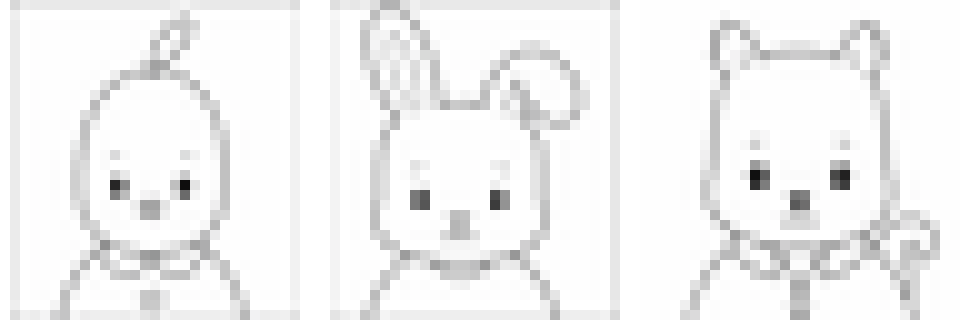
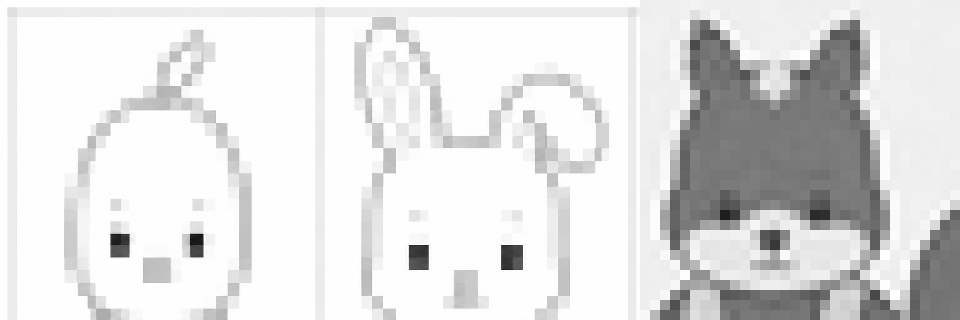
Finalize Luke character design references

diff --git a/planning/style-studies/output-process.html b/planning/style-studies/output-process.html
@@ -84,13 +84,13 @@
           <li><span class="decision-state">決定</span>無難な造形は親しみやすい一方で記憶に残りにくいため、頭の輪郭、比率、頬、顎を三人それぞれに特徴づける。</li>
           <li><span class="decision-state">FIX</span>年齢・性別による大きな体型差は直接反映せず、頭部を保ちながら胴体と手足を小さくしたC案の柔らかい素体を採用する。</li>
           <li><span class="decision-state">FIX</span>代表ポーズによって三人の役割と感情を伝える方針は確定する。</li>
-          <li><span class="decision-state">FIX</span>Lukeは柔らかい縦長頭部、豆形の白い口元、#FF511Bの毛色、グレージュのベストを最終造形とする。</li>
-          <li><span class="decision-state">FIX</span>三人の正面・側面・背面を無彩色の線画で統一し、Lukeの白い口元、耳、ベスト、尻尾の接続とpx寸法を更新する。</li>
+          <li><span class="decision-state">FIX</span>Lukeは柔らかい縦長頭部、豆形の白い口元、小さな三本の額毛、細い眉、#FF511Bの毛色、開いたグレージュのベスト、縦長のお腹の白塗りを最終造形とする。</li>
+          <li><span class="decision-state">FIX</span>三人の正面・側面・背面を無彩色の線画で統一し、Lukeの固定造形とpx寸法を更新する。</li>
         </ol>
       </div>
       <div class="decision-panel todo-panel">
         <h2>TODO｜次の制作</h2>
-        <p>更新した三面図とpx基準をもとに、32px前後の顔＋肩表示で三人の識別性を確認する。あわせてLukeの8動作で頭部、白面、耳、ベスト、尻尾が基準造形から崩れていないか最終確認する。</p>
+        <p>32px前後の顔＋肩表示とLukeの8動作への反映は完了。次は実際の画面背景上で32px表示を確認し、額毛・眉・白い口元が潰れる場合だけ線幅と明度差を調整する。</p>
       </div>
     </div>
   </aside>
@@ -121,7 +121,7 @@
     ];
     const specs = {
       kotori:{ label:"Mimo先生｜小鳥", desc:"聞く・返す・待つ。現在の代表候補は「聞く」。", files:["v1","v1","v2","v1","v1","v1","v1","v2","v3"] },
-      risu:{ label:"Luke先生｜リス", desc:"観察・試す・選び直す。代表ポーズは「ひらめく」。初期の縦長頭部を見直し、現在は柔らかい縦長頭部、豆形の白い口元、#FF511Bの毛色、グレージュのベストを固定造形としている。", files:["v1","v1","v2","v1","v1","v1","v1","v2","v3"], overrides:{0:"outputs/characters/risu/01-risu-character-design-step-1-ratio-lock-guide-v1.png"} },
+      risu:{ label:"Luke先生｜リス", desc:"観察・試す・選び直す。代表ポーズは「ひらめく」。柔らかい縦長頭部、豆形の白い口元、小さな三本の額毛、細い眉、#FF511Bの毛色、開いたグレージュのベスト、縦長のお腹の白塗りを固定造形としている。", files:["v1","v1","v2","v1","v1","v1","v1","v2","v3"], overrides:{0:"outputs/characters/risu/01-risu-character-design-step-1-ratio-lock-guide-v1.png"} },
       usagi:{ label:"Gen先生｜うさぎ", desc:"誘う・気づく・合わせる。現在の代表候補は「誘う」。", files:["v1","v1","v2","v1","v1","v1","v1","v2","v3"] }
     };
     const sections = [];
@@ -151,11 +151,12 @@
       {n:9,title:"選定ポーズを共通骨格に揃えて配色する",note:"STEP 05の推奨骨格へ頭身・胴体幅・手足の大きさを合わせ、Mimo＝黄、Luke＝橙、Gen＝白とワイン紫を適用。Lukeは鼻と口の周囲だけに白いマズルを加え、顔の識別性も比較している。",file:"outputs/groups/09-main-three-selected-emotional-poses-color-study-v2.png",status:"配色比較",statusClass:"hold"}
     ]});
     sections.push({key:"head-shape",label:"頭部特徴あり",desc:"無難な共通頭部は記憶に残りにくいため、身体演技を維持したまま頭部だけを役割に合わせて特徴づけた比較。左が従来の丸い共通頭部、右が現在の推奨頭部。頭の縦横比、頬、顎、目の位置が人格の読み取りへどう影響するかを確認する。",compare:true,items:[
-      {stepLabel:"COLOR LINEUP",title:"三人の頭部特徴と配色を最終決定する",note:"Mimoの落ち着いた黄、Genの白とワイン、Lukeの柔らかい縦長頭部・豆形の白い口元・#FF511Bの毛色を一枚に統合。三人を同じ接地線へ並べ、造形と配色の両方を最終案として固定した。",file:"outputs/groups/26-main-three-head-color-lineup-ff511b-v1.png",status:"造形・配色FIX",statusClass:"current"},
+      {stepLabel:"COLOR LINEUP",title:"配色・頭部比較",note:"頭部特徴と現在の配色を三人で確認する。Lukeは#FF511Bの毛色、柔らかい縦長頭部、豆形の白い口元、小さな三本の額毛、細い眉、開いたベスト、縦長のお腹の白塗りを採用案として反映した。",file:"outputs/groups/26-main-three-head-color-lineup-ff511b-v1.png",status:"造形・配色FIX",statusClass:"current"},
       {n:12,title:"三人の三面図とpx寸法を無彩色線画で統一する",note:"Mimo、Gen、Lukeを同じ無彩色の線画、中心軸、頭部ガイド、接地線で統一。Lukeは柔らかい縦長頭部、豆形の口元境界、C案の身体、ベスト、腰から接続する尻尾へ更新した。基準値はMimo＝全高293px・頭98×128px、Gen＝全高313px・頭142×110px、Luke＝全高280px・頭112×105px。",file:"outputs/groups/12-main-three-after-head-neutral-turnaround-measurement-guide-v1.png",status:"三面図・px基準FIX",statusClass:"current"},
+      {stepLabel:"32PX CHECK",title:"顔＋肩で三人の最小表示を確認する",note:"三人を約32px相当まで縮小し、頭部輪郭と顔の識別性を比較。Lukeは三本の額毛、眉、豆形の白い口元、開いたベストの襟元が小表示でも残るかを確認する。",file:"outputs/groups/25-main-three-final-face-shoulders-32px-preview-v1.png",status:"小表示確認",statusClass:"current"},
       {stepLabel:"MIMO",title:"Mimo先生｜小鳥：丸い小鳥から、静かに受け取る傾聴者へ",beforeFile:"outputs/head-shape-comparison/01-kotori-before-round-head.png",afterFile:"outputs/characters/kotori/10-kotori-listener-emotion-acting-sheet-v1.png",beforeLabel:"正円に近い頭",afterLabel:"縦長の卵形",note:"旧案は親しみやすい一方、幼い小鳥や一般的なマスコットに見えやすい。新案は頬を膨らませず縦方向へ流し、目の大きさを固定。静かに聴き、待つ若い大人の印象を強めた。",points:["縦方向へ伸ばす","頬を足さない","まぶたと傾きで傾聴"]},
       {stepLabel:"GEN",title:"Gen先生｜うさぎ：一般的な丸頭から、安定して伴走する応援者へ",beforeFile:"outputs/head-shape-comparison/02-usagi-before-generic-round-head.png",afterFile:"outputs/characters/usagi/11-usagi-supporter-emotion-acting-sheet-v1.png",beforeLabel:"均一な丸頭",afterLabel:"丸角四角＋低い頬",note:"旧案は動きが明快だが、ポーズごとに頭が円形へ戻りやすい。新案は側面を縦に保ち、目より下の頬を最も広く、顎を短く平らに固定。快活な上半身を支える安心感が生まれた。",points:["側面を縦に保つ","低い頬を最幅にする","短く広い顎で安定"]},
-      {stepLabel:"LUKE",title:"Luke先生｜リス：硬い縦長頭部から、柔らかい観察者へ",beforeFile:"outputs/head-shape-comparison/03-risu-before-round-head.png",afterFile:"outputs/characters/risu/31-risu-final-soft-head-ff511b-v1.png",beforeLabel:"丸い共通頭部",afterLabel:"柔らかい縦長＋豆形の白面",note:"初期の丸頭と、その後の細く硬い縦長頭部を見直した。現在は成人らしい縦長感を残しながら頭頂・側面・頬・顎を滑らかにつなぎ、豆形の白い口元と小さく低い目で、観察・比較・考え直す35歳の人格を固定している。",points:["縦長感と柔らかさを両立","豆形の白面で口元を整理","#FF511Bとグレージュを固定"]}
+      {stepLabel:"LUKE",title:"Luke先生｜リス：硬い縦長頭部から、柔らかい観察者へ",beforeFile:"outputs/head-shape-comparison/03-risu-before-round-head.png",afterFile:"outputs/characters/risu/41-risu-final-soft-head-monochrome-acting-sheet-v1.png",beforeLabel:"丸い共通頭部",afterLabel:"固定頭部を白黒8動作で確認",note:"初期の丸頭と、その後の細く硬い縦長頭部を見直した。現在は成人らしい縦長感を残しながら頭頂・側面・頬・顎を滑らかにつなぎ、豆形の白い口元、小さな三本の額毛、細い眉を白黒8動作で維持。頭部比較ではMimo・Genと同じ無彩色に揃え、配色の影響を外して輪郭と顔の識別性を確認する。",points:["縦長感と柔らかさを8動作で維持","三本の額毛・眉・豆形の白面を固定","無彩色で頭部特徴だけを比較"]}
     ]});
     sections.push({key:"body-shape",label:"年齢・性表現による体型パターン",desc:"色、服、表情の影響を外し、動物別に体型の輪郭を比較した。横軸は子ども・若者・成人・高齢、縦軸は女性的・中性的・男性的な性表現。年齢差を主軸に、子どもの丸く短い身体、若者の細く長い身体、成人の厚み、高齢期の腹部・腰・脚のふくよかさを強調した。頭部は頭部形状 Before / After の推奨After案を適用している。",bodyGrid:true,items:[
       {stepLabel:"現在案",title:"After頭部と8動作の実寸で三人を並べる",note:"年齢・性別による体型差はいったん外し、各8動作シートの代表立ち姿を基準に、頭身だけでなく画像上の表示サイズも再現した。1536×1024の並びではMimo約345px、Gen約460px、Luke約350pxの全高を目安に、全身を均等縮小して同じ接地線へ配置。Mimoは大きく見えたため一段縮小し、内部の頭身と細い身体は維持した。",file:"outputs/body-shape/00-main-three-after-head-cute-body-lineup-v2.png",status:"8動作の実寸へ統一",statusClass:"current"},
@@ -165,7 +166,7 @@
       {type:"note",label:"現在地｜C案を動作へ展開",text:"Mimo 27歳、Gen 26歳、Luke 35歳女性を基準に、頭部100％、胴体82％、腕と脚85％を選定。足先、耳、翼端、尻尾は維持し、胸郭・腹部・骨盤の柔らかな連結も残したまま、次の8ポーズへ展開した。"},
       {stepLabel:"MIMO 27・C",title:"Mimo先生｜C案を8つの傾聴動作へ展開",note:"縦長のAfter頭部を固定し、胴体82％、翼と脚85％、足先と冠羽100％で展開。聞く、身を寄せる、待つ、返す、考える各動作で、コンパクトになっても丸い幼鳥素体へ戻らないよう三つの胴体量感を維持した。",file:"outputs/body-shape/09-kotori-age27-option-c-acting-sheet-v1.png",status:"C案・動作展開",statusClass:"current"},
       {stepLabel:"GEN 26・C",title:"Gen先生｜C案を8つの応援動作へ展開",note:"低い頬が最幅、短く広い平らな顎、やや離れた目を頭部基準として固定。胴体82％に対して腕と脚を約72％、手を80％まで縮め、大きな足は100％で維持。8動作すべてで頭身の小ささが明確に見えるよう再調整した。",file:"outputs/body-shape/10-usagi-age26-option-c-acting-sheet-v3.png",status:"C案・手足再調整",statusClass:"current"},
-      {stepLabel:"LUKE 35・FINAL",title:"Luke先生｜最終造形を8つの観察・発明動作へ展開",note:"C案のコンパクトな身体比率を維持しながら、柔らかい縦長頭部、豆形の白い口元、#FF511B、グレージュのベストを8動作へ反映。観察、しゃがんで調べる、比較する、ひらめく、道具を探す、発見に反応する、試す、選び直す場面でも頭部・白面・尻尾の識別性を保った。",file:"outputs/characters/risu/33-risu-final-soft-head-color-acting-sheet-v1.png",status:"最新版・8動作FIX",statusClass:"current"},
+      {stepLabel:"LUKE 35・FINAL",title:"Luke先生｜最終造形を8つの観察・発明動作へ展開",note:"柔らかい縦長頭部、豆形の白い口元、小さな三本の額毛、細い眉、#FF511B、開いたグレージュのベスト、縦長のお腹の白塗りを8動作へ反映。観察、しゃがんで調べる、比較する、ひらめく、道具を探す、発見に反応する、試す、選び直す場面でも固定造形と尻尾の識別性を保った。",file:"outputs/characters/risu/33-risu-final-soft-head-color-acting-sheet-v1.png",status:"最新版・8動作FIX",statusClass:"current"},
       {type:"note",label:"見送った案｜旧年齢設定とC以前の身体比率",text:"ここからは見送った中間案。旧推奨年齢のGen 39歳・Luke 52歳、C以前のMimo 27歳・Gen 26歳・Luke 35歳の大きな身体比率は、成人の貫禄は出た一方で、身体と手足が硬く見えた。年齢そのものはMimo 27歳のように維持した場合もあるが、素体比率は上のC案へ更新した。"},
       {stepLabel:"旧・推奨年齢",title:"旧設定で三人の年齢差を強く表す",note:"Mimo＝27歳、Gen＝39歳、Luke＝52歳として、胴体幅、腹部、手足の厚み、接地感を段階的に変えた初期の年齢強調案。現在はGen 26歳、Luke 35歳女性へ更新し、身体比率もC案へ移行したため見送った。",file:"outputs/body-shape/00-main-three-recommended-age-body-lineup-v1.png",status:"見送った年齢案",statusClass:"hold"},
       {stepLabel:"MIMO 27",title:"Mimo先生｜選定体型を8つの傾聴動作へ展開",note:"細い雫形の胴体、長く細い脚、高い重心、縦長のAfter頭部を固定。聞く、身を寄せる、待つ、返す、考える各動作で、前屈や着座時にも丸い幼鳥素体へ戻らないかを確認した。",file:"outputs/body-shape/04-kotori-age27-body-acting-sheet-v1.png",status:"見送った身体比率",statusClass:"hold"},
